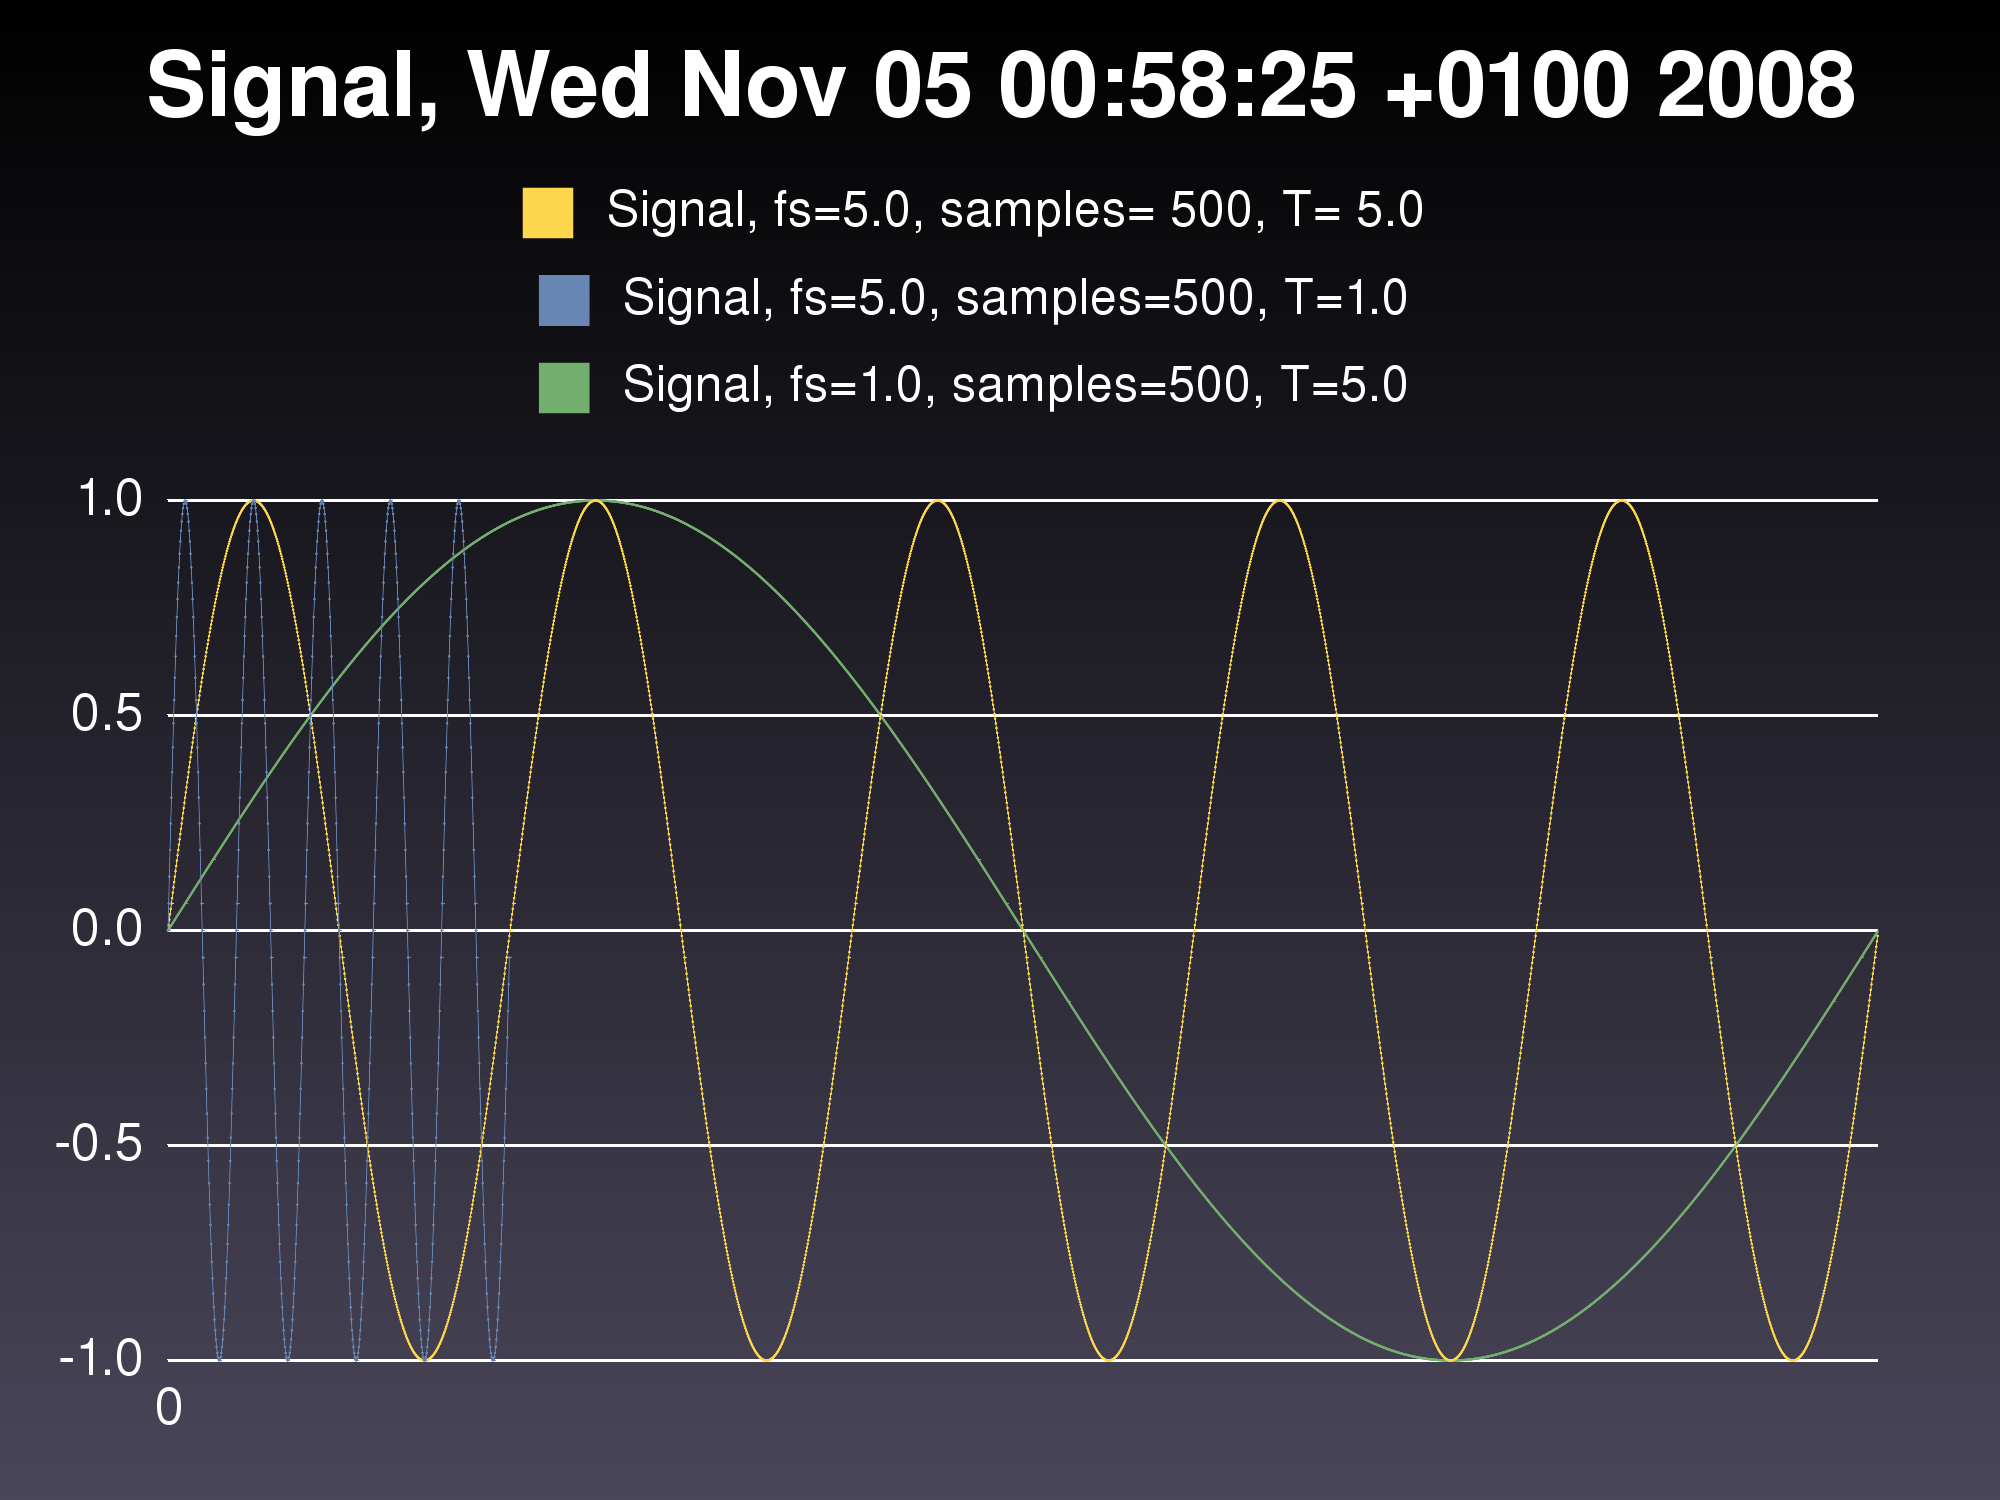
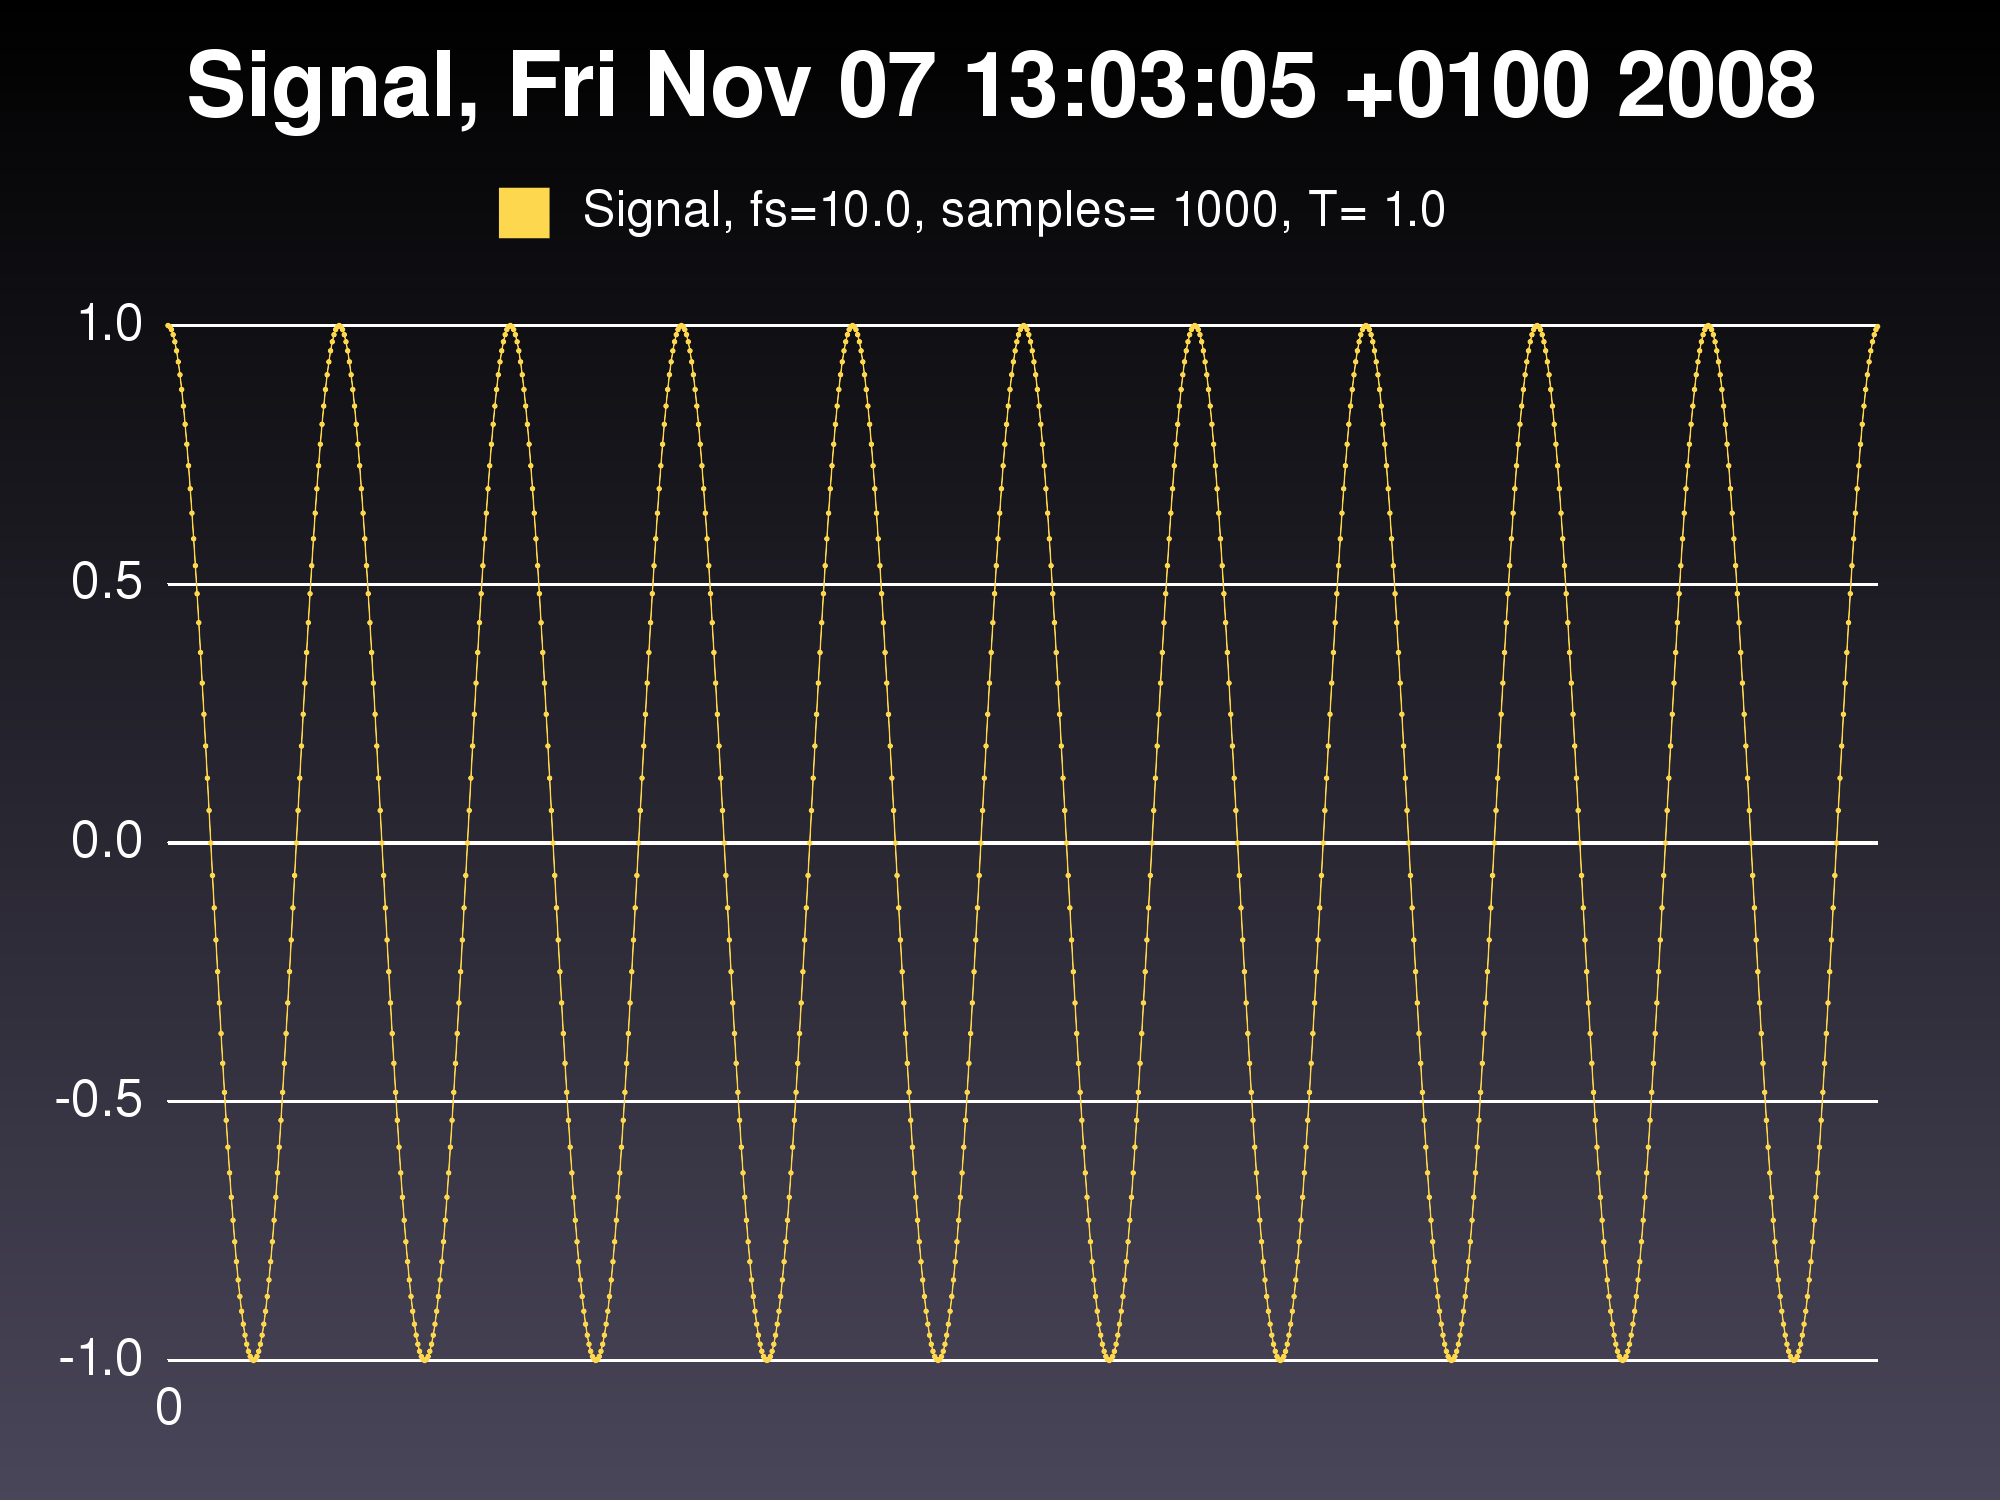
autocorrelation bug -  not fixed yet

diff --git a/nwgdm_test.rb b/nwgdm_test.rb
@@ -7,36 +7,36 @@ c = NWGDM.new
 ################ First lecture: sampling a signal ################
 # Parameter: Signal Frequence (Hz/s), Sample Frequenze (Hz/s), Duration (e.g. 5 seconds)
 
-SAMPLES = 500
-WINDOW_LENGTH = 500
+SAMPLES = 1000
+WINDOW_LENGTH = 10 
 
-signal_frequence = 5.0
+signal_frequence = 10.0
 samples = SAMPLES
-duration = 5.0
+duration = 1.0
 
-signal_frequence_1 = 5.0
-samples_1 = SAMPLES
-duration_1 = 1.0
-
-signal_frequence_2 = 1.0
-samples_2 = SAMPLES
-duration_2 = 5.0
-
-signal_frequence_3 = 2.0
-samples_3 = SAMPLES
-duration_3 = 10.0
+# signal_frequence_1 = 5.0
+# samples_1 = SAMPLES
+# duration_1 = 1.0
+# 
+# signal_frequence_2 = 1.0
+# samples_2 = SAMPLES
+# duration_2 = 5.0
+# 
+# signal_frequence_3 = 2.0
+# samples_3 = SAMPLES
+# duration_3 = 10.0
 
 puts "Sampling signal Signal frequence: #{signal_frequence}, Samples: #{samples}, Duration: #{duration}..."
 signal = c.sample_sinus(signal_frequence, samples, duration)
 puts 'Done'
 
-puts "Sampling signal Signal frequence: #{signal_frequence_1}, Samples: #{samples_1}, Duration: #{duration_1}..."
-signal_1 = c.sample_sinus(signal_frequence_1, samples_1, duration_1)
-puts 'Done'
-
-puts "Sampling signal Signal frequence: #{signal_frequence_2}, Samples: #{samples_2}, Duration: #{duration_2}..."
-signal_2 = c.sample_sinus(signal_frequence_2, samples_2, duration_2)
-puts 'Done'
+# puts "Sampling signal Signal frequence: #{signal_frequence_1}, Samples: #{samples_1}, Duration: #{duration_1}..."
+# signal_1 = c.sample_sinus(signal_frequence_1, samples_1, duration_1)
+# puts 'Done'
+# 
+# puts "Sampling signal Signal frequence: #{signal_frequence_2}, Samples: #{samples_2}, Duration: #{duration_2}..."
+# signal_2 = c.sample_sinus(signal_frequence_2, samples_2, duration_2)
+# puts 'Done'
 
 # puts "Sampling signal Signal frequence: #{signal_frequence_3}, Samples: #{samples_3}, Duration: #{duration_3}..."
 # signal_3 = c.sample_sinus(signal_frequence_3, samples_3, duration_3)
@@ -48,8 +48,8 @@ sig = Gruff::Line.new(2000)
 sig.title = "Signal, #{Time.now}" 
 puts 'Prepraing data...'
 sig.data("Signal, fs=#{signal_frequence}, samples= #{samples}, T= #{duration}", signal)
-sig.data("Signal, fs=#{signal_frequence_1}, samples=#{samples_1}, T=#{duration_1}", signal_1)
-sig.data("Signal, fs=#{signal_frequence_2}, samples=#{samples_2}, T=#{duration_2}", signal_2)
+# sig.data("Signal, fs=#{signal_frequence_1}, samples=#{samples_1}, T=#{duration_1}", signal_1)
+# sig.data("Signal, fs=#{signal_frequence_2}, samples=#{samples_2}, T=#{duration_2}", signal_2)
 # sig.data("Signal, fs=#{signal_frequence_3}, samples=#{samples_3}, T=#{duration_3}", signal_3)
 
 puts 'Preparing labels...'
@@ -64,18 +64,23 @@ puts 'Done'
 
 puts 'Calculating autocorrelation...'
 acfs = c.acf(signal, WINDOW_LENGTH)
-acfs_1 = c.acf(signal_1, WINDOW_LENGTH)
-acfs_2 = c.acf(signal_2, WINDOW_LENGTH)
+# acfs_1 = c.acf(signal_1, WINDOW_LENGTH)
+# acfs_2 = c.acf(signal_2, WINDOW_LENGTH)
 # acfs_3 = c.acf(signal_3, WINDOW_LENGTH)
 puts 'Done'
+
+# puts 'Finding peaks...'
+# Peaks suchen mit einem threshold von 1 (weil r normalisiert ist)
+# peaks = c.peak_picker(acfs, 1.0, true)
+# puts 'Done'
 
 puts 'Printing autocorrelation...'
 acf = Gruff::Line.new(2000)
 acf.title = "Autokorrelation #{Time.now}"
 puts 'Prepraing data...'
-# acf.data("Autokorrelation Signal: fs=#{signal_frequence}, samples: #{samples}, T=#{duration}, wl=#{WINDOW_LENGTH}", acfs)
+acf.data("Autokorrelation Signal: fs=#{signal_frequence}, samples: #{samples}, T=#{duration}, wl=#{WINDOW_LENGTH}", acfs)
 # acf.data("Autokorrelation Signal: fs=#{signal_frequence_1}, samples: #{samples_1}, T=#{duration_1}, wl=#{WINDOW_LENGTH}", acfs_1)
-acf.data("Autokorrelation Signal: fs=#{signal_frequence_2}, samples: #{samples_2}, T=#{duration_2}, wl=#{WINDOW_LENGTH}", acfs_2)
+# acf.data("Autokorrelation Signal: fs=#{signal_frequence_2}, samples: #{samples_2}, T=#{duration_2}, wl=#{WINDOW_LENGTH}", acfs_2)
 # acf.data("Autokorrelation Signal: fs=#{signal_frequence_3}, samples: #{samples_3}, T=#{duration_3}, wl=#{WINDOW_LENGTH}", acfs_3)
 
 acf.write('autokorrelation.png')

diff --git a/nwgdm.rb b/nwgdm.rb
@@ -5,10 +5,17 @@ class NWGDM
     # f(t) = A*sin(wt+phi) = A*sin(2pi*f*t+phi) = A*sin(2pi*(1/T)*t+phi)
     result = []
     for i in 0...f_sample*duration do #*duration do
-      result[i] = Math.sin(f_signal*i*(2*Math::PI/(f_sample*duration)))
+      result[i] = Math.cos(f_signal*i*(2*Math::PI*duration/(f_sample*duration)))
       # result[i] = Math.sin(f_signal*(2*Math::PI/f_sample*duration)*i)        
      end
      result
+  end
+  
+  def rechteckimplus(f_signal, f_sample, duration)
+    result = []
+    for i in 0..f_sample do
+      
+    end
   end
   
   
@@ -31,15 +38,23 @@ class NWGDM
   # }
   
   
+  # for (int i=0; i<myFFT.spectrum.length; i++) {
+  #      sum=0;
+  #      for (int j=0; j<myFFT.spectrum.length-i; j++) {
+  #        sum += myFFT.spectrum[j] * myFFT.spectrum[j+i];
+  #      }
+  #      R[i]=sum;
+  #    }
+     
   # Calculating the Autocorrelation for a given signal
   def acf(signal, windowlength)
     n = signal.size
     denominator = 0.0
     acf = []
-    for i in 0..(n-windowlength-1) do
+    for i in 0..signal.size do
       acf[i] = 0
       denominator = 0.0
-      for k in 0..windowlength do
+      for k in 0..signal.size-1 do
         acf[i] += signal[k] * signal[k+i]
         denominator += signal[k+i]*signal[k+i]
       end
